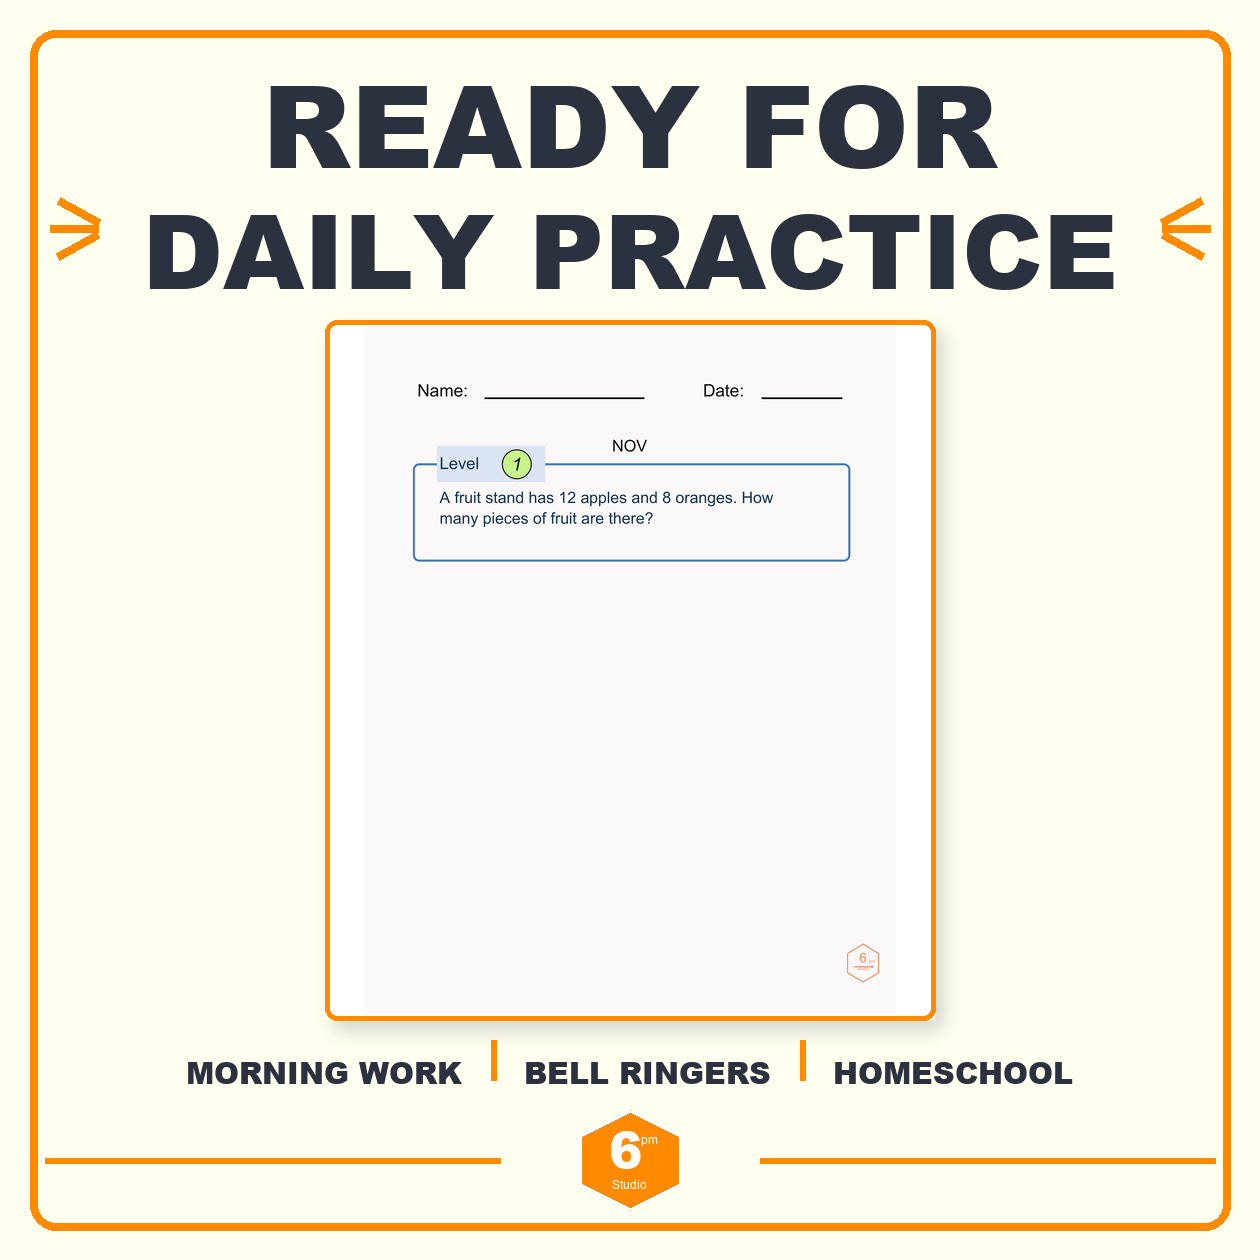
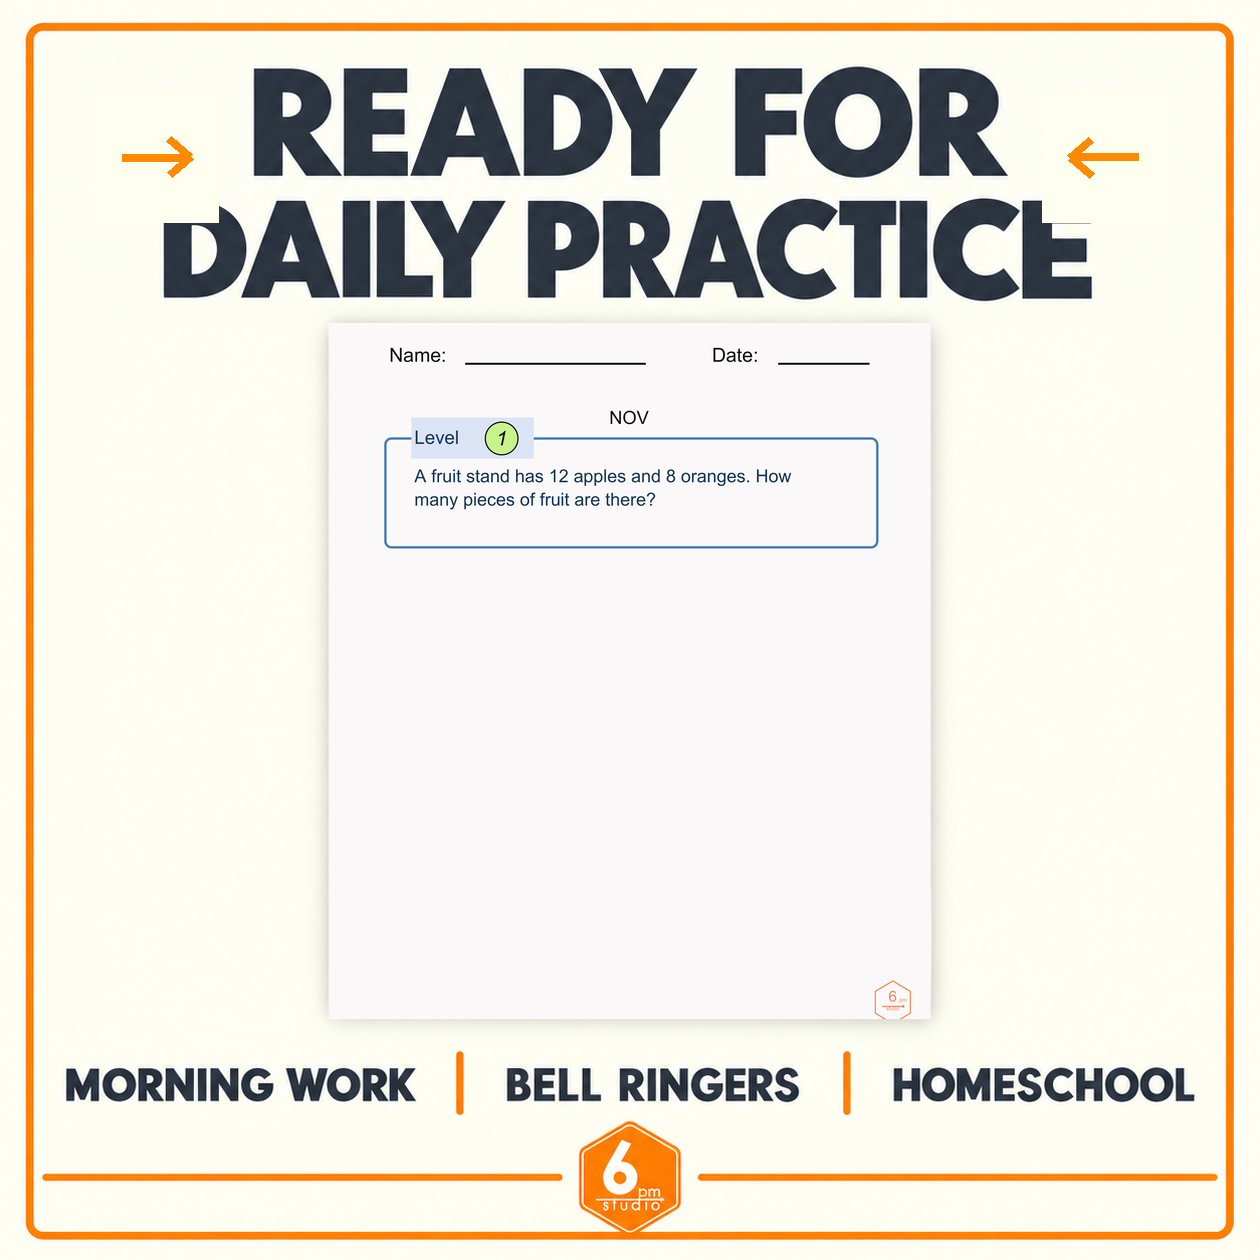
Fix November daily practice thumbnail parity

Changed region(s): [[0.0, 0.0, 0.9905, 0.9905]]

diff --git a/scripts/generate_monthly_thumbnails.py b/scripts/generate_monthly_thumbnails.py
@@ -378,23 +378,41 @@ def compose_daily_practice(month, pages, out):
         # for future monthly manifests.
         Image.open(canonical).convert("RGB").resize((SIZE, SIZE), Image.Resampling.LANCZOS).save(out, "PNG", optimize=True)
         return
-    canvas = base_canvas()
+    # October is the source of truth for this thumbnail's frame, typography,
+    # footer, and logo. Start from the checked-in parity fixture so those
+    # fixed regions cannot drift while the real worksheet page changes by
+    # month. November intentionally replaces only the worksheet preview and
+    # the header accents requested by the owner.
+    if canonical.exists():
+        canvas = Image.open(canonical).convert("RGBA").resize((SIZE, SIZE), Image.Resampling.LANCZOS)
+    else:
+        canvas = base_canvas()
     draw = ImageDraw.Draw(canvas)
-    centered(draw, "READY FOR", 42, 114, 1180)
-    accented_title(draw, "DAILY PRACTICE", 174, 104, 1180)
-    card(canvas, pages["worksheet"], (325, 320, 610, 700), "", label_style="none")
-    items = ["MORNING WORK", "BELL RINGERS", "HOMESCHOOL"]
-    widths = [draw.textbbox((0, 0), item, font=font(30))[2] for item in items]
-    total = sum(widths) + 2 * 62
-    x = (SIZE - total) // 2
-    for index, item in enumerate(items):
-        draw.text((x, 1050), item, anchor="la", fill=NAVY, font=font(30))
-        x += widths[index]
-        if index < len(items) - 1:
-            draw.line((x + 31, 1040, x + 31, 1080), fill=ORANGE, width=6)
-            x += 62
-    footer(canvas)
-    logo(canvas, pages["worksheet"])
+
+    # Replace the diagonal rays in the October fixture with the requested
+    # clean horizontal arrow brackets, while leaving the headline untouched.
+    draw.rectangle((92, 92, 218, 222), fill=BG)
+    draw.rectangle((1042, 92, 1168, 222), fill=BG)
+    arrow_width = 8
+    draw.line((122, 157, 190, 157), fill=ORANGE, width=arrow_width)
+    draw.line((190, 157, 169, 139), fill=ORANGE, width=arrow_width)
+    draw.line((190, 157, 169, 175), fill=ORANGE, width=arrow_width)
+    draw.line((1138, 157, 1070, 157), fill=ORANGE, width=arrow_width)
+    draw.line((1070, 157, 1091, 139), fill=ORANGE, width=arrow_width)
+    draw.line((1070, 157, 1091, 175), fill=ORANGE, width=arrow_width)
+
+    # The October preview window is a borderless, softly shadowed 601x696
+    # crop. Fit the real November PDF page into that same window without
+    # stretching it; the shadow remains supplied by the canonical fixture.
+    preview_box = (329, 323, 930, 1019)
+    source = Image.open(pages["worksheet"]).convert("RGB")
+    fitted_image = ImageOps.fit(
+        source,
+        (preview_box[2] - preview_box[0], preview_box[3] - preview_box[1]),
+        method=Image.Resampling.LANCZOS,
+        centering=(0.5, 0.5),
+    )
+    canvas.paste(fitted_image, preview_box[:2])
     canvas.convert("RGB").save(out, "PNG", optimize=True)
 
 
@@ -549,10 +567,10 @@ def main():
         "pdf_sha256": actual_pdf_sha256,
         "doodle_sha256": hashlib.sha256(doodle_path.read_bytes()).hexdigest() if doodle_path else None,
         "copyConcepts": {
-            "cover": {"headline": manifest["product"]["month"].title(), "productTitle": "MORNING WORK MATH", "supportingText": [f"{day_count} DAILY WORD PROBLEMS"], "levelsBlock": "3 LEVELS with orange side lines", "doodle": "orange line-art pumpkin" if doodle_path is None else str(doodle_path), "doodlePrompt": "recognizable pumpkin silhouette with five ribbed lobes, curved stem, outlined leaf, and flattened base; orange outline only; no fill or shading" if doodle_path is None else "month-specific approved transparent orange line-art doodle; fixed art box; no fill or shading"},
+            "cover": {"headline": manifest["product"]["month"].title(), "productTitle": "MORNING WORK MATH", "supportingText": [f"{day_count} DAILY WORD PROBLEMS"], "levelsBlock": "3 LEVELS with orange side lines", "doodle": "orange line-art pumpkin" if doodle_path is None else manifest["doodle"]["path"], "doodlePrompt": "recognizable pumpkin silhouette with five ribbed lobes, curved stem, outlined leaf, and flattened base; orange outline only; no fill or shading" if doodle_path is None else "month-specific approved transparent orange line-art doodle; fixed art box; no fill or shading"},
             "whats_included": {"headline": "WHAT’S INCLUDED", "sourceLayout": "story, level 1, level 2 / level 3, answer key", "headlineEmphasis": "three orange rays on each side", "labelStyle": "orange pills narrower than cards", "footer": "centered logo without divider lines", "parityFixture": "references /thumbnail-assets/thumbnail-2-reference.png", "failureLoop": "rerun prompt/compositor optimization until fixed-region visual QA passes"},
             "different_math": {"headline": [manifest["product"]["month"].title(), "Morning Work Math"], "supportingText": f"{day_count} Daily Word Problems · 3 Levels", "sourceLayout": "three subtly tilted worksheet cards in one row", "headlineSideLines": "short orange horizontal rules around the month", "labelStyle": "large uppercase navy labels", "parityFixture": "references /thumbnail-assets/thumbnail-3-reference.png", "failureLoop": "rerun prompt/compositor optimization until fixed-region visual QA passes"},
-            "daily_practice": {"headline": ["READY FOR", "DAILY PRACTICE"], "useCases": ["MORNING WORK", "BELL RINGERS", "HOMESCHOOL"], "headlineEmphasis": "three orange rays on each side", "useCaseSeparators": "vertical orange lines", "sourceLayout": "one centered upright real worksheet preview", "parityFixture": "references /thumbnail-assets/thumbnail-4-reference.png", "failureLoop": "rerun prompt/compositor optimization until fixed-region visual QA passes"},
+            "daily_practice": {"headline": ["READY FOR", "DAILY PRACTICE"], "useCases": ["MORNING WORK", "BELL RINGERS", "HOMESCHOOL"], "headlineEmphasis": "horizontal arrow brackets on each side for the November variant", "useCaseSeparators": "vertical orange lines", "sourceLayout": "one centered borderless real worksheet preview with October-matched shadow and crop", "parityFixture": "references /thumbnail-assets/thumbnail-4-reference.png", "failureLoop": "rerun prompt/compositor optimization until fixed-region visual QA passes"},
             "landing_page": {"headline": [manifest["product"]["month"].title(), "Morning Work Math"], "supportingText": f"{day_count} Daily Word Problems · 3 Levels", "sourceLayout": "five subtly tilted worksheet cards in one row", "labels": ["READING PASSAGE", "LEVEL 1", "LEVEL 2", "LEVEL 3", "ANSWER KEY"], "parityFixture": "references /thumbnail-assets/thumbnail-5-reference.png", "failureLoop": "rerun prompt/compositor optimization until fixed-region visual QA passes"},
         },
     }

diff --git a/scripts/validate_thumbnail4_visual_parity.py b/scripts/validate_thumbnail4_visual_parity.py
@@ -6,7 +6,7 @@ import json
 from pathlib import Path
 
 import numpy as np
-from PIL import Image, ImageChops
+from PIL import Image, ImageChops, ImageDraw
 
 SIZE = (1260, 1260)
 BG = np.array([254, 255, 239], dtype=np.uint8)
@@ -19,6 +19,15 @@ FIXED_REGIONS = {
     "footer": (35, 1135, 1225, 1225),
 }
 VARIABLE_REGIONS = {"worksheet_preview": (325, 320, 935, 1020)}
+ARROW_FIXED_REGIONS = {
+    "header_and_arrows": FIXED_REGIONS["header_and_rays"],
+    "preview_shadow_top": (300, 315, 960, 323),
+    "preview_shadow_left": (300, 315, 329, 1020),
+    "preview_shadow_right": (930, 315, 960, 1020),
+    "preview_shadow_bottom": (300, 1019, 960, 1030),
+    "use_case_row": FIXED_REGIONS["use_case_row"],
+    "footer": FIXED_REGIONS["footer"],
+}
 
 
 def load(path: Path) -> Image.Image:
@@ -33,6 +42,21 @@ def normalize_palette(image: Image.Image) -> Image.Image:
     orange = (pixels[:, :, 0] > 220) & (pixels[:, :, 1] < 190) & (pixels[:, :, 2] < 100)
     pixels[ivory], pixels[navy], pixels[orange] = BG, NAVY, ORANGE
     return Image.fromarray(pixels, "RGB")
+
+
+def apply_arrow_header(image: Image.Image) -> Image.Image:
+    """Build the approved November header variant from the October frame."""
+    result = image.copy()
+    draw = ImageDraw.Draw(result)
+    draw.rectangle((92, 92, 218, 222), fill=tuple(BG.tolist()))
+    draw.rectangle((1042, 92, 1168, 222), fill=tuple(BG.tolist()))
+    draw.line((122, 157, 190, 157), fill=tuple(ORANGE.tolist()), width=8)
+    draw.line((190, 157, 169, 139), fill=tuple(ORANGE.tolist()), width=8)
+    draw.line((190, 157, 169, 175), fill=tuple(ORANGE.tolist()), width=8)
+    draw.line((1138, 157, 1070, 157), fill=tuple(ORANGE.tolist()), width=8)
+    draw.line((1070, 157, 1091, 139), fill=tuple(ORANGE.tolist()), width=8)
+    draw.line((1070, 157, 1091, 175), fill=tuple(ORANGE.tolist()), width=8)
+    return result
 
 
 def ssim(a: np.ndarray, b: np.ndarray) -> float:
@@ -59,16 +83,20 @@ def main():
     parser.add_argument("--generated", type=Path, required=True)
     parser.add_argument("--output-dir", type=Path, required=True)
     parser.add_argument("--threshold", type=float, default=0.50)
+    parser.add_argument("--header-style", choices=("rays", "arrows"), default="rays")
     args = parser.parse_args()
     reference = normalize_palette(load(args.reference))
     generated = normalize_palette(load(args.generated))
+    if args.header_style == "arrows":
+        reference = apply_arrow_header(reference)
     args.output_dir.mkdir(parents=True, exist_ok=True)
     ImageChops.difference(reference, generated).save(args.output_dir / "thumbnail-4-pixel-diff.png")
     Image.blend(reference, generated, 0.5).save(args.output_dir / "thumbnail-4-overlay.png")
     side = Image.new("RGB", (2520, 1260), "white")
     side.paste(reference, (0, 0)); side.paste(generated, (1260, 0))
     side.save(args.output_dir / "thumbnail-4-side-by-side.png")
-    fixed = {name: compare(reference, generated, box) for name, box in FIXED_REGIONS.items()}
+    fixed_regions = ARROW_FIXED_REGIONS if args.header_style == "arrows" else FIXED_REGIONS
+    fixed = {name: compare(reference, generated, box) for name, box in fixed_regions.items()}
     variable = {name: compare(reference, generated, box) for name, box in VARIABLE_REGIONS.items()}
     minimum = min(metric["ssim"] for metric in fixed.values())
     report = {"reference": str(args.reference), "generated": str(args.generated),
@@ -77,6 +105,7 @@ def main():
               "visualAcceptance": {"fixedRegionMinSsim": minimum,
                                     "fixedRegionThreshold": args.threshold,
                                     "passed": minimum >= args.threshold},
+              "headerStyle": args.header_style,
               "artifacts": ["thumbnail-4-side-by-side.png", "thumbnail-4-overlay.png", "thumbnail-4-pixel-diff.png"],
               "visualReview": "human inspection required; fixed-region and variable-preview metrics are recorded"}
     (args.output_dir / "thumbnail-4-visual-qa.json").write_text(json.dumps(report, indent=2) + "\n")
